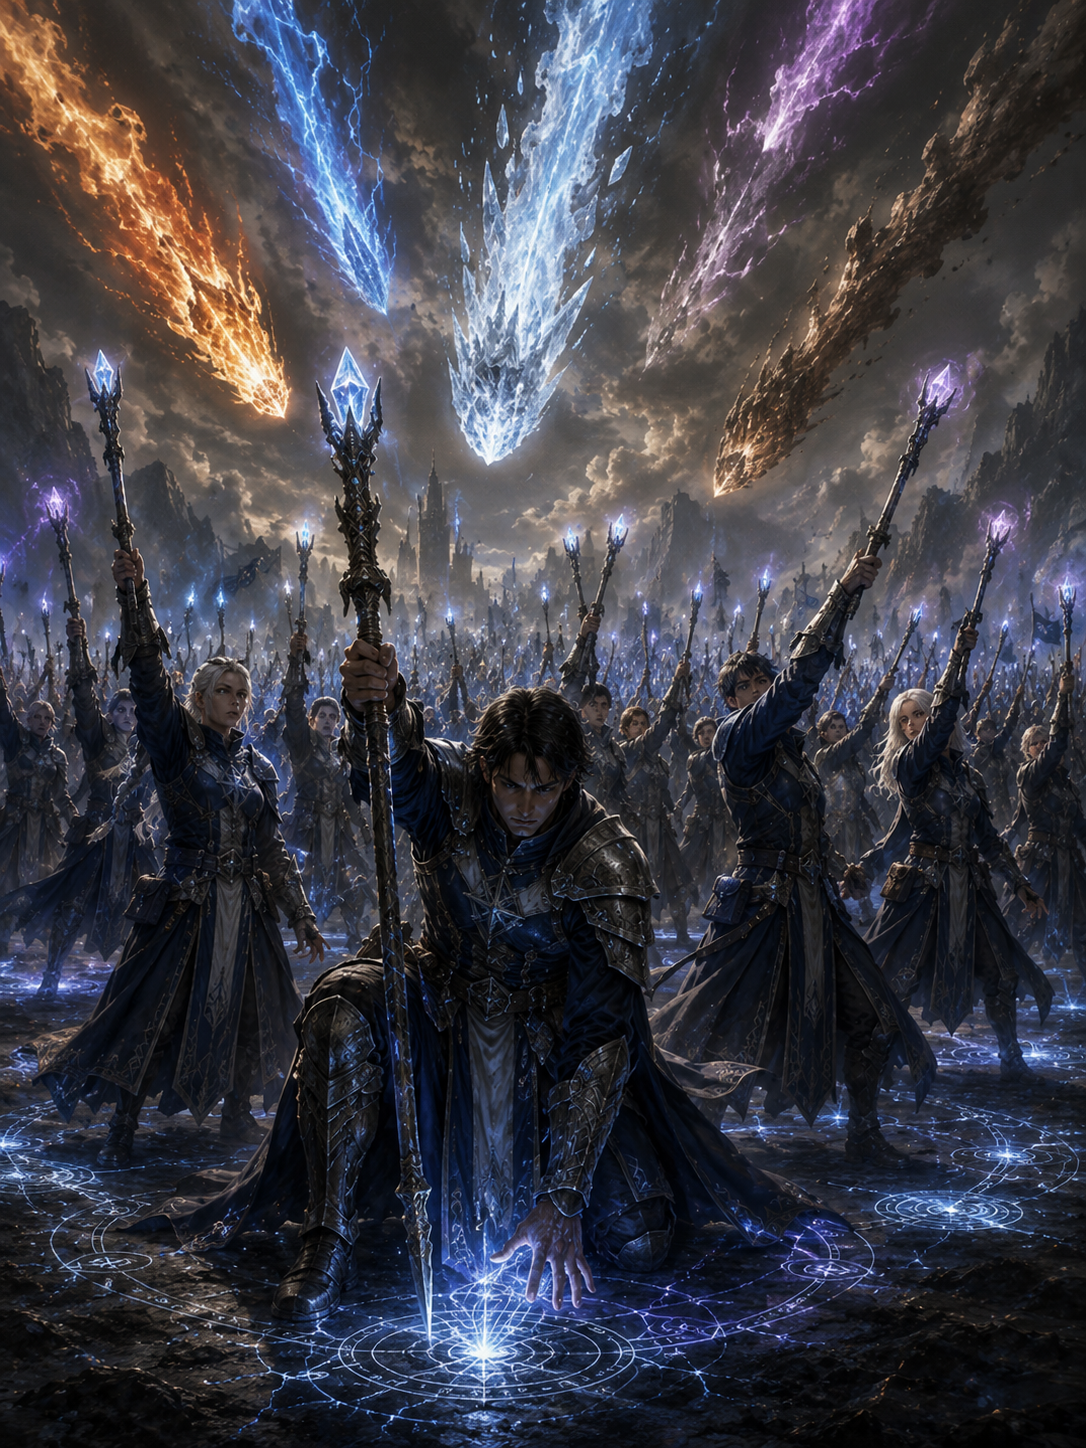
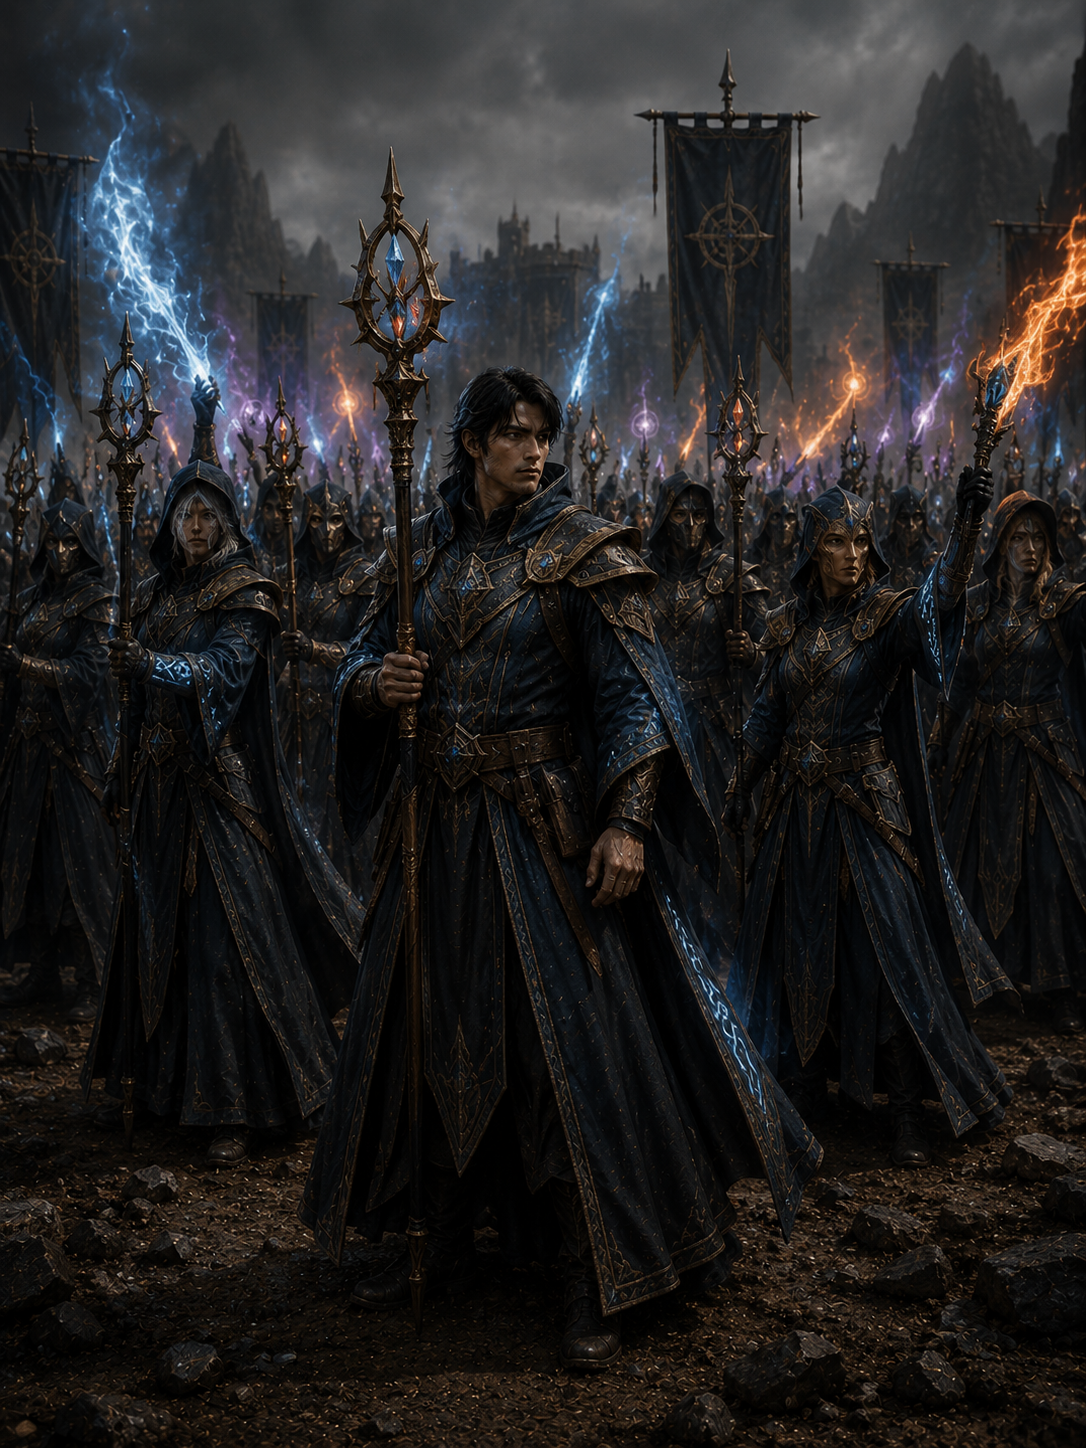
latest

diff --git a/starhaven-unit-wiki.html b/starhaven-unit-wiki.html
@@ -8196,6 +8196,41 @@
                 ]
               },
               {
+                "id": "polar-bear-riders",
+                "data-br": "Beast Cavalry",
+                "data-src": "gar",
+                "name": "Polar Bear Riders",
+                "className": "Elite Polar Bear Cavalry ⚙",
+                "branch": "Beast Cavalry",
+                "subtitle": "· Frosthold Elite · Bonded Pairs · Never Leaves the Bastion",
+                "srcPill": "🏯 Garrison",
+                "armorBadge": "V.Heavy",
+                "armorClass": "armor-badge a-vh",
+                "location": "Frosthold Bastion",
+                "army": "Frosthold Garrison — Wyld Frostmere",
+                "total": "180",
+                "image": "unitImages/polar-bear-riders.png",
+                "imageAlt": "Polar Bear Riders",
+                "notes": "Where the Snowtusk Cavalry is Frosthold's mass mounted force, the Polar Bear Riders are its answer to the moment the line itself is what's failing — a small elite kept in reserve rather than committed at the opening of an engagement. Same restriction as the Snowtusk elk applies here for a different reason: it isn't that the bears can't survive below the snowline, it's that they won't perform for anyone once removed from the cold they were bonded in, and Wyld Frostmere has never been willing to find out what an unbonded polar bear does in a battle it doesn't understand. They stay at Frosthold. They have never once been asked to leave it.\n\nEach bear is paired to a single rider from cub-hood, the same bonding discipline the Ironpack uses for its hounds, and the corps has never successfully transferred a bear to a second rider after the first was lost — Wyld Frostmere's standing order is that a riderless bear is retired to the denning grounds, not reassigned. The faint gold markings visible in each bear's fur are not paint or brand. Frosthold's naturalists have never fully explained them, only confirmed they appear exclusively on bears raised through the bonding program and deepen in color the longer the bond holds. Where the Snowtusk doctrine is lance-and-saber mounted cavalry, doctrine here is close order: shield first, sword second, and a mount heavy enough that the rider is rarely the one absorbing the first hit.",
+                "armor": [
+                  {
+                    "slot": "Rider",
+                    "name": "Frostcrown Plate",
+                    "desc": "— Ornate fur-cloaked heavy plate, more ceremonial in appearance than the standard Frosthide Cavalry Plate but built to the same combat standard underneath — the Riders are Frosthold's honor guard as much as its reserve breaker unit, and the armor is expected to look the part in both roles."
+                  },
+                  {
+                    "slot": "Mount",
+                    "name": "Bonded Polar Bear",
+                    "desc": "— Paired to a single rider from cub-hood; does not perform reliably for anyone else and is never reassigned after a rider is lost. Faint gold markings in the fur are natural to the bonding process, not applied — Frosthold's naturalists have confirmed the pattern but not its cause. Will not leave the cold Frosthold is built in."
+                  },
+                  {
+                    "slot": "Weapon",
+                    "name": "Round Shield & Broadsword",
+                    "desc": "— Close-order kit built around the shield leading and the sword following, rather than the Snowtusk's lance-first charge doctrine. The mount's own mass and reach carry most of the impact; the rider's role is to hold the line the bear has already broken open."
+                  }
+                ]
+              },
+              {
                 "id": "great-elk",
                 "data-br": "Beast Cavalry",
                 "data-src": "own",
@@ -9199,12 +9234,17 @@
                   {
                     "slot": "Body",
                     "name": "Arcane Battle Robe",
-                    "desc": "— Enchantment-threaded robe over light plate chest. Rune channels in sle…"
+                    "desc": "— Enchantment-threaded robe worn over a light plate chest piece, cut close through the shoulders and open at the forearms so a caster's draw is never fighting the fabric. Rune channels run the length of both sleeves, dormant and grey until a mage begins to draw — then they light in whatever element that caster has been assigned for the volley, giving battlefield commanders a visible, real-time read on the corps' charge state without needing to ask."
                   },
                   {
                     "slot": "Weapon",
                     "name": "Arcane Staff",
-                    "desc": "— Focus-staff with dual-element crystal housing. Kai's personally calibr…"
+                    "desc": "— A dual-element focus-staff, crystal housing split to hold two elemental charges independently rather than forcing a caster to choose one discipline per engagement. Kai personally calibrates every staff in the corps by hand before it sees a battlefield — a process he has never delegated and has declined every offer to speed up. The calibration is the difference between a mage casting alone and a mage casting in synchrony with 1,874 others without a beat of hesitation."
+                  },
+                  {
+                    "slot": "Formation",
+                    "name": "Synchronized Battery Discipline",
+                    "desc": "— Not equipment, but drilled into the corps as rigorously as anything they carry: the Arcane Artillery Corps does not fire as individuals. Every caster locks tempo to Kai's own staff, releasing as one coordinated discharge rather than a ragged sequence of separate spells — the reason a single volley reads on the field like an artillery barrage rather than a battalion of mages doing their own thing at once."
                   }
                 ]
               },
@@ -11731,6 +11771,41 @@
                     "slot": "Shield",
                     "name": "Ironwall Pavise — 7ft, 180lb",
                     "desc": "— Seven feet tall, iron-faced with a hardwood core and a ground spike at the base for planting. At 180 pounds, the shield is not carried into combat in the conventional sense — it is moved, planted, and held. The iron face is angled at 5° from vertical when planted, deflecting bolts and stones upward rather than absorbing them flat. A flat face transfers more impact to the bearer; the angled face redirects it into the ground. Forgehaven-manufactured to Grael Ironwall's specification. Can stop a direct bolt-thrower bolt at 100 yards. Cannot stop a Scorpio at 50 yards — which is why the Pavise line holds position outside that engagement range."
+                  }
+                ]
+              },
+              {
+                "id": "unbroken-line",
+                "data-br": "Infantry",
+                "data-src": "new",
+                "name": "The Unbroken Line",
+                "branch": "Infantry",
+                "className": "Petitioning Company · Elven Spear & Shield · Center-Line Doctrine",
+                "subtitle": "· Commander Elina · 140 (130–150) · Goldgate-Based · Awaiting Full Commission",
+                "srcPill": "🆕 New",
+                "armorBadge": "Heavy",
+                "armorClass": "armor-badge a-h",
+                "location": "Goldgate — Provisional Barracks",
+                "army": "Independent Petitioning Company — Commander Elina · Under Review, Grand Marshal Rhaegar Thorne",
+                "total": "140 (130–150 variable roster)",
+                "image": "unitImages/unbroken-line.png",
+                "imageAlt": "The Unbroken Line",
+                "notes": "Elina's company was not raised in Starhaven. It arrived there — a hundred and some elven soldiers who had already been a company somewhere else before whatever they left behind stopped being somewhere they could stay. They settled near Goldgate rather than passing through it, which the Adventurers Guild noticed before the standing army did: Drev Holt's people flagged a disciplined foreign company holding formation drills in the open fields outside the city walls for three straight weeks before anyone in the Grand Standing Army filed a report on them.\n\nWhen the report finally reached Rhaegar Thorne, it was not a request for asylum or a mercenary contract. It was a formal petition for full army commission — Elina wanted her company inducted as a standing Starhaven unit, not retained as an independent company paid by the season. Rhaegar has not yet answered it. What he has done is watch them drill, twice, without announcing himself either time.\n\nThe company is small on purpose. Elina has turned away every volunteer who has asked to join since arriving, and the roster has held between 130 and 150 for as long as anyone in Goldgate has been counting. What it does, it does at a level numbers alone don't produce: hold the center of a battle line when the center is the one place that is not allowed to move. Flanks advance, flanks retreat, flanks maneuver — the center of a formation holds or the formation stops being a formation. Elina's company trains for exactly that single job and no other, spear and shield locked in overlapping rank, absorbing pressure a line twice its size would eventually give ground to. Rhaegar's own field marshals have started asking, unprompted, whether the petition has been approved yet.",
+                "armor": [
+                  {
+                    "slot": "Body",
+                    "name": "Gilded Line Plate",
+                    "desc": "— Ornate white-and-gold plate, more decorative in appearance than Starhaven's standard-issue armor but no lighter in protection — the company brought their own smiths and their own tradition with them, and neither shows signs of being replaced to match coalition uniformity. Full coverage at the chest and shoulders, built for a soldier who is expected to stand and not step back."
+                  },
+                  {
+                    "slot": "Shield",
+                    "name": "Warded Kite Shield",
+                    "desc": "— A tall kite shield carried in a locked overlapping formation, each shield covering the gap beside it rather than only its own bearer. The company does not fight as individuals with shields; it fights as one continuous wall built out of a hundred and some smaller ones."
+                  },
+                  {
+                    "slot": "Weapon",
+                    "name": "Spear & Line Sword",
+                    "desc": "— A thrusting spear held through the shield wall's gaps for the first exchange, and a shorter sword drawn only once the spear's reach is no longer the answer. The company does not advance on the sword. It is a last-resort weapon for a line that has already decided it is not moving regardless of what reaches it."
                   }
                 ]
               },

diff --git a/unit-audit.md b/unit-audit.md
@@ -1,7 +1,7 @@
 # STARHAVEN Unit Audit
-**Unit IDs currently in file: 322 wiki cards audited · 290 tracked here**
+**Unit IDs currently in file: 324 wiki cards audited · 292 tracked here**
 **Planned future units (not yet in file): 5**
-**Consolidated list total: 276** *(Silver Swan 16 regional cards → 4 types)*
+**Consolidated list total: 278** *(Silver Swan 16 regional cards → 4 types)*
 *Audited from `starhaven-unit-wiki.html` · Verified against `starhaven_wiki.html` · 2026-07-02*
 *Full second-pass audit completed 2026-07-02: 292 wiki cards cross-checked against this list — see "Second-Pass Audit Additions" section for units found in the wiki but previously untracked here. Mount/beast reference cards (personal mounts, war-horse breeds, exotic mounts — 39 cards in `sec-animals`, 38 intentionally out of scope plus Fenrik as the sole tracked exception) are intentionally out of scope for this list, same as always — they're equipment/companion references, not standing units. Third-pass audit (2026-07-05) confirmed 3 genuine gaps found and closed — see "Third-Pass Audit" section.*
 
@@ -626,3 +626,15 @@
 **Kuku Gunriders** (entry 290) added 2026-07-06 — Stonemark Holds' dwarven gun cavalry, 3,000 strong, mounted on war-bred kuku (flightless, red-crested war-birds matching a warhorse's pace on open ground and outperforming one on the Holds' broken mountain trails). Each rider carries a wheel-lock pistol and a shortened cavalry spear, firing once at closing range before carrying the spear through the same pass. Card added to `starhaven-unit-wiki.html` under a new "Kuku Gunriders — Stonemark Holds" subgroup in the Beast Cavalry branch, directly after the Mammoth Riders · War Elephants group, `data-src: "ally"`. Commander: Brokk Graniteborn, Captain Torvald Redcrest. Also added to `starhaven_wiki.html`'s `stonemark-holds` army entry (`units` array) and to `starhaven_units_by_branch.md` under Stonemark Holds → Beast Cavalry. Image file needed: `kuku-gunriders.png`.
 
 290. Kuku Gunriders *(3,000 · Dwarven Gun Cavalry · Kuku-mounted, pistol and spear · Commander: Stonemark Holds — Brokk Graniteborn, Captain Torvald Redcrest)*
+
+---
+
+**Polar Bear Riders** (entry 291) added 2026-07-06 — Frosthold's elite reserve beast cavalry, 180 strong, added alongside entry 138 (Snowtusk Cavalry) in the same "Snow Elk / Forest Elk Cavalry" subgroup of `starhaven-unit-wiki.html`, `data-src: "gar"`. Bonded pairs from cub-hood, same restriction as the Snowtusk elk (won't leave Frosthold, though for bonding reasons rather than an altitude/survival limit) — a small honor-guard/reserve-breaker unit rather than Frosthold's mass cavalry force. Also added to `starhaven_units_by_branch.md` under Frosthold Garrison's Beast Cavalry. Image file needed: `polar-bear-riders.png`.
+
+291. Polar Bear Riders *(180 · Elite Beast Cavalry, bonded pairs · Never leaves Frosthold · Commander: Frosthold Garrison — Wyld Frostmere)*
+
+---
+
+**The Unbroken Line** (entry 292) added 2026-07-06 — a small elven petitioning company, 140 (130–150 variable roster), that settled near Goldgate and formally petitioned Rhaegar Thorne for full Starhaven army commission rather than staying an independent/mercenary company. Petition is under review, not yet approved. Card added to `starhaven-unit-wiki.html` in the Infantry branch directly after Pavise Shield Corps, `data-src: "new"`. Doctrine is center-line holding specifically — locked overlapping shield wall built to anchor the middle of a formation while flanks maneuver, deliberately kept small (Elina turns away volunteers) rather than scaled up. Commander: Elina. Also added to `starhaven_units_by_branch.md` under STARHAVEN (Own Forces) → Infantry. Image file needed: `unbroken-line.png`.
+
+292. The Unbroken Line *(140 · Elven petitioning company, Commander Elina · Center-line holding doctrine · Goldgate-based, awaiting full army commission from Rhaegar Thorne)*

diff --git a/starhaven_units_by_branch.md b/starhaven_units_by_branch.md
@@ -58,6 +58,7 @@
 - **"Twice-Burned" Gareth** — 1 — Commander: Vael Dusken
 - **Root-Watcher Sylen** — 1 — Commander: Primal Vanguard · Thorin Blackroot
 - **Pavise Shield Corps** — 2,000 — Commander: Grael Ironwall
+- **The Unbroken Line** — 140 (130–150 variable roster) — Commander: Elina (Independent Petitioning Company, awaiting full commission)
 
 ### Polearm
 
@@ -106,6 +107,7 @@
 - **The RootFang** — 180 — Commander: Thorin Blackroot
 - **Dire Wolf Handler Corps** — 230 — Commander: Primal Vanguard
 - **Snowtusk Cavalry** — unknown — Commander: Wyld Frostmere
+- **Polar Bear Riders** — 180 — Commander: Wyld Frostmere
 - **Great Elk — Forest Elk Cavalry** — unknown — Commander: Greenveil Defense Forces
 - **Silver Moon Elk Riders** — 188 — Commander: Silent Warden Mounted Wing
 - **War Bear Corps** — 250 handlers / 1,250 bears — Commander: Thorin Blackroot
